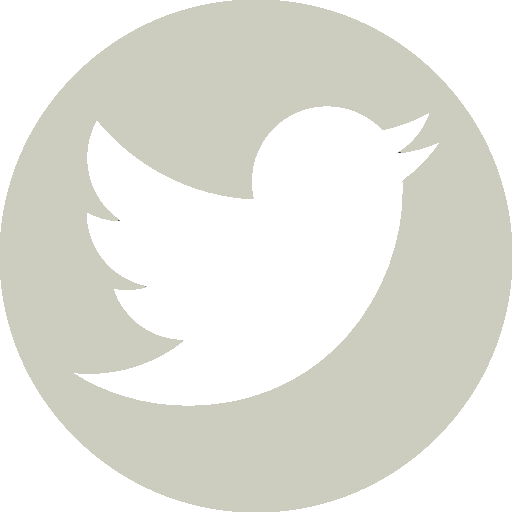
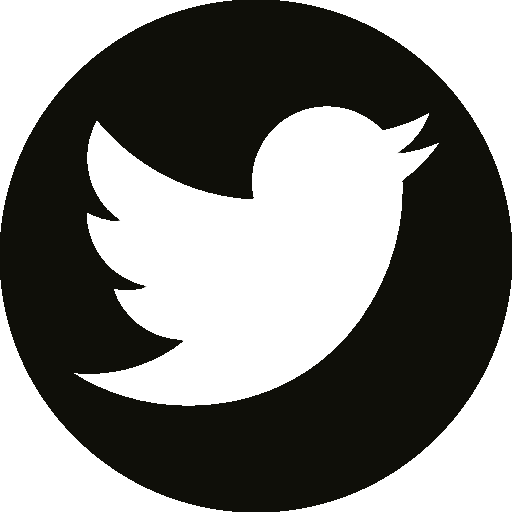
a

diff --git a/src/css/style.css b/src/css/style.css
@@ -1,1 +1,1 @@
-.body{padding:0;margin:0;backgrounf:linear-gradient(#fff, #fefefe, #eaeaea)}.serif-m{color:f1f1f1;font:bold 10px Sans-serif}.serif-h{color:#BDBDAD;font:bold 20px Sans-serif}.img-change{width:100%;height:100%}.container{position:relative;padding:0px 0px 0px 0px}.container-fluid{position:relative;padding:0px 0px 0px 0px;margin:0px 0px 0px 0px}.content{position:relative;margin-left:-15px;margin-right:-15px;margin:0px 0px 0px 0px}.content:before,.content:after{content:" ";display:table}.content:after{clear:both}.line-up{height:6px;background-color:#2F0000}.social{background-color:#F1F1F1;height:24px}.social #social-up__content{padding:2 2 2 2}#face{height:100px;position:relative;background-color:#222213}#face #face-box{margin:0px 0px 0px 0px;padding:0px 0px 0px 0px}.cap{height:34.35px;width:55px;position:absolute;top:45px;padding:0px 0px 0px 0px;background-image:url("../img/icones/logo.fw.png");background-size:100% 100%;background-position:center;margin-left:39.16667%}@media (min-width: 768px){.cap{margin-left:11.66667%}}@media (min-width: 992px){.cap{margin-left:11.66667%}}.navbar,.navbar-default{z-index:10;position:absolute;top:55px;right:0px;margin:0px 0px 0px 0px;padding:0px 0px 0px 0px;position:relative;min-height:1px;padding-left:15px;padding-right:15px;position:relative;min-height:1px;padding-left:15px;padding-right:15px;boder-radius:0;box-shadow:none;border:none;background-color:transparent}@media (min-width: 768px){.navbar,.navbar-default{float:left;width:58.33333%}}@media (min-width: 768px){.navbar,.navbar-default{margin-left:41.66667%}}@media (min-width: 992px){.navbar,.navbar-default{float:left;width:41.66667%}}@media (min-width: 992px){.navbar,.navbar-default{margin-left:50%}}.navbar .navbar-collapse,.navbar-default .navbar-collapse{background-color:rgba(34,34,19,0.4);border:none;margin:0px 0px 0px 0px}.navbar .navbar-collapse ul.navbar-nav,.navbar-default .navbar-collapse ul.navbar-nav{margin:0px 0px 0px 0px}.navbar .navbar-collapse ul.navbar-nav li,.navbar-default .navbar-collapse ul.navbar-nav li{text-align:left}.navbar .navbar-collapse ul.navbar-nav li.active a,.navbar-default .navbar-collapse ul.navbar-nav li.active a{background-color:#222213;color:#BDBDAD;font:12px Sans-serif}.navbar .navbar-collapse ul.navbar-nav li a,.navbar-default .navbar-collapse ul.navbar-nav li a{transition:0.5s;color:#BDBDAD;font:bold 10px Sans-serif}.navbar .navbar-collapse ul.navbar-nav li a:hover,.navbar-default .navbar-collapse ul.navbar-nav li a:hover{background:#f1f1f1;color:#222213}.navbar .navbar-nav:hover,.navbar-default .navbar-nav:hover{margin:0px 0px 100px 0px}.loading-box{height:350px;width:350px;border:2px solid white;position:absolute;top:50%;left:50%;transform:translate(-50%, -50%) rotate(-45deg)}.roller-p{height:55px;width:150px;border:5px solid #040e15;border-radius:7px;background-image:linear-gradient(to bottom, #ffca3e 0, #ffca3e 80%, #fc8f2e 80%);position:absolute;margin:auto;left:0;right:0;top:0;animation:roller-p 2s infinite}.roller-p:before{position:absolute;content:"";background-color:rgba(255,255,255,0.7);height:7px;width:75px;top:8px;left:8px;border-radius:10px}@keyframes roller-p{40%{top:165px}}.roller-p:after{position:absolute;content:"";height:50px;width:90px;border:7px solid #040e15;border-left:none;right:-20px;top:20px;z-index:-1;border-radius:7px}.handle-p{height:30px;width:7px;background-color:#040e15;position:absolute;top:65px;right:63px}.handle-p:after{position:absolute;content:"";height:75px;width:25px;background-color:#040e15;bottom:-75px;right:-8px;border-radius:5px}.paint-p{background-color:#ffca3e;height:0;width:130px;position:absolute;margin:auto;left:0;right:0;z-index:-1;animation:paint 2s infinite}@keyframes paint-p{40%{height:165px}}.read-sv-h1{font:20px Sans-serif}.read-sv-h2{font:13px Sans-serif}#sv{padding-top:15px;width:100%;color:rgba(34,34,19,0.6)}.box-sv{height:600px;text-align:justify;position:relative;position:relative;float:left;width:100%;min-height:1px;padding-left:15px;padding-right:15px;position:relative;min-height:1px;padding-left:15px;padding-right:15px;transition:0.6s}@media (min-width: 992px){.box-sv{float:left;width:33.33333%}}.box-sv:hover,.box-sv:active{background-color:rgba(64,16,0,0.5);color:#f1f1f1}.box-sv-1{height:600px;position:relative;position:relative;float:left;width:100%;min-height:1px;padding-left:15px;padding-right:15px;position:relative;min-height:1px;padding-left:15px;padding-right:15px;color:rgba(34,34,19,0.6);transition:0.6s}@media (min-width: 992px){.box-sv-1{float:left;width:33.33333%}}.box-sv-1:hover,.box-sv-1:active{background-color:rgba(138,138,123,0.7);color:#f1f1f1}.box-sv-2{height:600px;position:relative;position:relative;float:left;width:100%;min-height:1px;padding-left:15px;padding-right:15px;position:relative;min-height:1px;padding-left:15px;padding-right:15px;color:rgba(34,34,19,0.6);transition:0.6s}@media (min-width: 992px){.box-sv-2{float:left;width:33.33333%}}.box-sv-2:hover,.box-sv-2:active{background-color:rgba(0,48,64,0.5);color:#f1f1f1}.read-sv{position:absolute;opacity:1;height:300px;font:12px Sans-serif;padding:40px;padding-left:80px;padding-right:80px;text-align:justify;vertical-align:middle}.img-sv{position:absolute;right:0px;left:0px;top:300px;height:300px;background-repeat:no-repeat;background-size:cover;background-position:center;background-attachment:scroll}.read-sv-1{position:absolute;right:0px;left:0px;top:300px;opacity:1;height:300px;font:12px Sans-serif;padding:40px;padding-left:80px;padding-right:80px;text-align:justify;vertical-align:middle}.img-sv-1{position:absolute;right:0px;left:0px;top:0px;height:300px;background-repeat:no-repeat;background-size:cover;background-position:center;background-attachment:scroll}.accordion{max-width:100%;height:500px;margin:15px auto auto auto;display:flex;flex-direction:row;cursor:pointer;margin-botton:100px}.box{position:relative;height:450px;flex:1;background-position:left;background-size:cover;transition:.7s;box-shadow:0px 20px 30px rgba(0,0,0,0.47)}.box:hover{flex:7;height:500px}.a1{background-image:url("../img/slider/1.fw.png")}.a2{background-image:url("../img/slider/2.fw.jpeg")}.a3{background-image:url("../img/slider/5.fw.jpeg")}.a4{background-image:url("../img/slider/3.fw.jpeg")}.a5{background-image:url("../img/slider/6.fw.jpg")}.a6{background-image:url("../img/slider/7.fw.jpeg")}.text{position:absolute;bottom:0;opacity:0;padding:10px}.box:hover .text{opacity:1}p,h2{font-weight:normal;font-family:sans-serif}#job{padding:0 5px 0 5px;margin:10px auto 40px auto;position:relative;display:flex;justifly-content:space-between;height:350px}#job .card{position:relative;box-sizing:border-box;width:33.33%;box-shadow:0px 0 0px 0}#job .card .face{height:350px;transition:.5s;margin:0 5px 0 5px}#job .card .face.face1{overflow:hidden;position:relative;display:flex;justify-content:center;align-items:center;z-index:1}#job .card:hover .face.face1{transform:translateY(0)}#job .card .face.face1 .content{opacity:1;transition:0.5s}#job .card:hover .face.face1 .content{opacity:1}#job .card .face.face1 .content img{max-width:100px}#job .card .face.face2{position:relative;background:#f1f1f1;display:flex;justify-content:center;align-items:center;padding:20px;box-sizing:border-box;transform:translateY(-350px);transition:.5s;z-index:3;opacity:0}#job .card:hover .face.face2{height:350px;transition:.8s;opacity:.9}#job .card .face.face2 .content h3{margin:10px 0 0;padding:0;color:#000;text-align:justify;font-size:1.5em;font-weight:200}#job .card .face.face2 .content p{margin:0;padding:0}#job .card .face.face2 .content a{margin:15px 0 0;display:inline-block;text-decoration:none;font-weight:900;color:#333;padding:5px;border:1px solid #333}#job .card .face.face2 .content a:hover{background:#333;color:#fff}#servicos .accordion .box .text a{margin:15px 0 0;display:inline-block;text-decoration:none;font-weight:900;color:#333;padding:5px;border:1px solid #333}.consultoria,.projeto,.aprendizado{background-repeat:no-repeat;background-size:cover;background-position:center}.consultoria{background-image:url("../img/banners/consultoria.fw.jpeg")}.projeto{background-image:url("../img/banners/projeto.fw.jpg")}.aprendizado{background-image:url("../img/banners/aprendizado.fw.jpeg")}#servicos .accordion .box .text a:hover{background:#CCCCBF;border:1px solid  #CCCCBF}@media screen and (max-width: 800px){body{margin:0}.accordion{flex-direction:column;box-shadow:none;height:450px}.box{box-shadow:none;height:350px}.box:hover{flex:7;height:500px}.cap{top:35px;height:41.67px;width:70px}.read-sv{right:0px;left:0px;top:300px}.img-sv{right:0px;left:0px;top:0px}.membro-h{height:200px}.membro-face-h1,.membro-info-h1,.membro-face-h2,.membro-info-h2,.membro-face-v1,.membro-info-v1{height:100px}.membro-v1{height:200px}#job{margin:15px 0 15px 0}}#instagram h2{color:#000;text-align:justify;font-size:15}.box-ct{background:#f1f1f1;height:1250px;width:100%;position:relative}.contatos{width:100%;height:250px;position:absolute}.read-ct-h1{text-align:center;color:rgba(34,34,19,0.8);font:bold 20px Sans-serif}.read-ct-h2{text-align:center;color:rgba(34,34,19,0.8);font:bold 13px Sans-serif}.contato-form{background-image:url("../img/background/faq.jpg");background-repeat:no-repeat;background-size:cover;background-position:center;background-attachment:fixed;height:500px;width:100%;position:absolute;top:250px}.map-cap{height:400px;width:100%;position:absolute;top:750px}.wrapper{position:absolute;top:50%;transform:translateY(-50%);width:100%;padding:0 20px}.contact-form{max-width:1000px;margin:0 auto;background:rgba(0,0,0,0);padding:30px;border-radius:5px;display:flex}.input-fields{display:flex;flex-direction:column;margin-right:4%}.input-fields,.msg{width:48%}.input-fields .input,.msg textarea{margin:10px 0;background:transparent;border:0px;border-bottom:2px solid #f1f1f1;padding:10px;color:#f1f1f1;width:100%}.msg textarea{height:212px}::-webkit-input-placeholder{color:#f1f1f1}::-moz-input-placeholder{color:#f1f1f1}::-ms-input-placeholder{color:#f1f1f1}.btn{background:rgba(241,241,241,0.7);text-align:center;padding:15px;width:100%;border-radius:0px;color:#222213;cursor:pointer;text-transform:uppercase}@media screen and (max-width: 600px){.contact-form{flex-drection:column}.msg textarea{height:80px}.input-fields{width:100%}}#convite{background-color:#222213;display:inline-block;height:160px;width:100%}.read-cv{padding:33px;padding-left:0px;padding-right:0px;color:#BDBDAD;font:12px Sans-serif}.contact-us{border:1px solid rgba(138,138,123,0.7);display:block;position:relative;transition:0.7s;cursor:pointer;padding:15px;position:relative;float:left;width:50%;min-height:1px;padding-left:15px;padding-right:15px;margin-left:25%;position:relative;min-height:1px;padding-left:15px;padding-right:15px;color:rgba(138,138,123,0.7);font:bold 12px Sans-serif;z-index:1}@media (min-width: 992px){.contact-us{float:left;width:16.66667%}}@media (min-width: 992px){.contact-us{margin-left:41.66667%}}.contact-us:hover{transition:1.5s;color:#8a8a7b;border:1px solid rgba(0,0,0,0.9)}.contact-us::after{content:"";position:absolute;top:0px;left:0px;width:100%;height:100%;background:rgba(0,0,0,0.9);z-index:-1;transform:scaleX(0);transform-origin:right;transition:transform 700ms cubic-bezier(0.46, -0.33, 0.58, 1.24)}.contact-us:hover::after{transform:scaleX(1);transform-origin:left}#instagram{background-color:#F7F7FA}#instagram .container .content{padding:20px}#instagram .container .content #instagram__content{display:inline-block;height:350px}#instagram .container .content #instagram__content .read-instagram{padding-left:0px;padding-right:0px;color:#131304;font:12px Sans-serif}.carousel{height:700px;Width:100%;position:relative;top:-50px}.carousel-item{height:400px;width:300px;background-repeat:no-repeat;background-size:cover;background-position:center}.read-bnnr-h2{font:12px Sans-serif;color:rgba(241,241,241,0.8)}#banner{background-color:#222213;position:relative;padding:100px 0px 100px 0px}.read-bnnr{margin:20px 0 20px 0px;text-align:justify;vertical-align:middle;position:absolute;position:relative;float:left;width:100%;min-height:1px;padding-left:15px;padding-right:15px;position:relative;min-height:1px;padding-left:15px;padding-right:15px}@media (min-width: 992px){.read-bnnr{float:left;width:25%}}@media (min-width: 992px){.read-bnnr{margin-left:8.33333%}}.read-bnnr-1{margin:20px 0 20px 0px;text-align:justify;vertical-align:middle;position:relative;float:left;width:100%;min-height:1px;padding-left:15px;padding-right:15px;position:relative;min-height:1px;padding-left:15px;padding-right:15px}@media (min-width: 992px){.read-bnnr-1{float:left;width:25%}}@media (min-width: 992px){.read-bnnr-1{margin-left:8.33333%}}.read-bnnr-2{margin:20px 0 20px 0px;text-align:justify;vertical-align:middle;position:absolute;top:-30px;position:relative;float:left;width:100%;min-height:1px;padding-left:15px;padding-right:15px;position:relative;min-height:1px;padding-left:15px;padding-right:15px}@media (min-width: 992px){.read-bnnr-2{float:left;width:25%}}@media (min-width: 992px){.read-bnnr-2{margin-left:8.33333%}}p{font:12px Sans-serif}h2{font:bold 12px Sans-serif}.read-about,.read-about-we{position:relative;min-height:1px;padding-left:15px;padding-right:15px;position:absolute;top:50%;transform:translateY(-50%);text-align:justify;padding:50px}@media (min-width: 992px){.read-about,.read-about-we{float:left;width:83.33333%}}@media (min-width: 992px){.read-about,.read-about-we{margin-left:8.33333%}}.read-about{color:#222213}.read-about-we{border-style:solid;border-top-width:1px;border-bottom-width:1px;border-left-width:0px;border-right-width:0px;border-color:#f1f1f1;left:15px;right:15px;color:#f1f1f1;font:bold 25px Sans-serif}#history-cap,#history-cap-people{z-index:1;background-color:#f1f1f1;position:relative;min-height:1px;padding-left:15px;padding-right:15px}@media (min-width: 992px){#history-cap,#history-cap-people{float:left;width:100%}}#history-cap{height:350px;box-shadow:0px 0px 10px 0px}#history-cap-people{height:1000px;box-shadow:10px 0px 0px 0px}#we{height:450px;background-image:url("../img/slider/4.fw.png");background-repeat:no-repeat;background-size:cover;background-position:center;background-attachment:fixed;position:relative;min-height:1px;padding-left:15px;padding-right:15px}@media (min-width: 992px){#we{float:left;width:100%}}.read-about-people{font:bold 20px Sans-serif;position:absolute;top:50%;transform:translateY(-50%);left:50%;transform:translateX(-50%);text-align:center;color:#222213}.col{background-color:#f1f1f1}.membro-h{height:500px;position:relative;float:left;width:66.66667%;min-height:1px;padding-left:15px;padding-right:15px;position:relative;min-height:1px;padding-left:15px;padding-right:15px;position:relative;min-height:1px;padding-left:15px;padding-right:15px}@media (min-width: 768px){.membro-h{float:left;width:66.66667%}}@media (min-width: 992px){.membro-h{float:left;width:33.33333%}}.membro-h1,.membro-h2{width:100%;height:250px}.membro-face-h1,.membro-face-h2,.membro-info-h1,.membro-info-h2{position:absolute;width:50%;height:250px}.membro-face-h1,.membro-face-h2,.membro-face-v1{background-repeat:no-repeat;background-size:cover;background-position:center;background-attachment:scroll;cursor:pointer;opacity:.9}.membro-info-h1,.membro-info-h2,.membro-info-v1{padding:130px 15px 5px 15px;text-align:justify}.membro-info-h1,.membro-face-h2{right:0%}.membro-v1{position:relative;float:left;width:33.33333%;min-height:1px;padding-left:15px;padding-right:15px;position:relative;min-height:1px;padding-left:15px;padding-right:15px;position:relative;min-height:1px;padding-left:15px;padding-right:15px;height:500px}@media (min-width: 768px){.membro-v1{float:left;width:33.33333%}}@media (min-width: 992px){.membro-v1{float:left;width:16.66667%}}.membro-face-v1,.membro-info-v1{height:250px;width:100%}.membro-h1:hover,.membro-h2:hover,.membro-v1:hover{transition:900ms;background-color:#292929;color:#CECEBF}
+body{padding:0;margin:0;backgrounf:linear-gradient(#fff, #fefefe, #eaeaea)}.serif-m{color:f1f1f1;font:bold 10px Sans-serif}.serif-h{color:#BDBDAD;font:bold 20px Sans-serif}.img-change{width:100%;height:100%}.container{position:relative;padding:0px 0px 0px 0px}.container-fluid{position:relative;padding:0px 0px 0px 0px;margin:0px 0px 0px 0px}.content{position:relative;margin-left:-15px;margin-right:-15px;margin:0px 0px 0px 0px}.content:before,.content:after{content:" ";display:table}.content:after{clear:both}#line-up{height:0;background-color:#1A0000;width:100%}.social{background-color:#F1F1F1;height:24px}.social #social-up__content{padding:2 2 2 2}#face{height:100px;position:relative;background-color:#222213}#face #face-box{margin:0px 0px 0px 0px;padding:0px 0px 0px 0px}.cap{height:34.35px;width:55px;position:absolute;top:45px;padding:0px 0px 0px 0px;background-image:url("../img/icones/logo.fw.png");background-size:100% 100%;background-position:center;margin-left:39.16667%}@media (min-width: 768px){.cap{margin-left:11.66667%}}@media (min-width: 992px){.cap{margin-left:11.66667%}}.navbar,.navbar-default{z-index:10;position:absolute;top:55px;right:0px;margin:0px 0px 0px 0px;padding:0px 0px 0px 0px;position:relative;min-height:1px;padding-left:15px;padding-right:15px;position:relative;min-height:1px;padding-left:15px;padding-right:15px;boder-radius:0;box-shadow:none;border:none;background-color:transparent}@media (min-width: 768px){.navbar,.navbar-default{float:left;width:58.33333%}}@media (min-width: 768px){.navbar,.navbar-default{margin-left:41.66667%}}@media (min-width: 992px){.navbar,.navbar-default{float:left;width:41.66667%}}@media (min-width: 992px){.navbar,.navbar-default{margin-left:50%}}.navbar .navbar-collapse,.navbar-default .navbar-collapse{background-color:rgba(34,34,19,0.4);border:none;margin:0px 0px 0px 0px}.navbar .navbar-collapse ul.navbar-nav,.navbar-default .navbar-collapse ul.navbar-nav{margin:0px 0px 0px 0px}.navbar .navbar-collapse ul.navbar-nav li,.navbar-default .navbar-collapse ul.navbar-nav li{text-align:left}.navbar .navbar-collapse ul.navbar-nav li.active a,.navbar-default .navbar-collapse ul.navbar-nav li.active a{background-color:#222213;color:#BDBDAD;font:12px Sans-serif}.navbar .navbar-collapse ul.navbar-nav li a,.navbar-default .navbar-collapse ul.navbar-nav li a{transition:0.5s;color:#BDBDAD;font:bold 10px Sans-serif}.navbar .navbar-collapse ul.navbar-nav li a:hover,.navbar-default .navbar-collapse ul.navbar-nav li a:hover{background:#f1f1f1;color:#222213}.navbar .navbar-nav:hover,.navbar-default .navbar-nav:hover{margin:0px 0px 100px 0px}.loading-box{height:350px;width:350px;border:2px solid white;position:absolute;top:50%;left:50%;transform:translate(-50%, -50%) rotate(-45deg)}.roller-p{height:55px;width:150px;border:5px solid #040e15;border-radius:7px;background-image:linear-gradient(to bottom, #ffca3e 0, #ffca3e 80%, #fc8f2e 80%);position:absolute;margin:auto;left:0;right:0;top:0;animation:roller-p 2s infinite}.roller-p:before{position:absolute;content:"";background-color:rgba(255,255,255,0.7);height:7px;width:75px;top:8px;left:8px;border-radius:10px}@keyframes roller-p{40%{top:165px}}.roller-p:after{position:absolute;content:"";height:50px;width:90px;border:7px solid #040e15;border-left:none;right:-20px;top:20px;z-index:-1;border-radius:7px}.handle-p{height:30px;width:7px;background-color:#040e15;position:absolute;top:65px;right:63px}.handle-p:after{position:absolute;content:"";height:75px;width:25px;background-color:#040e15;bottom:-75px;right:-8px;border-radius:5px}.paint-p{background-color:#ffca3e;height:0;width:130px;position:absolute;margin:auto;left:0;right:0;z-index:-1;animation:paint 2s infinite}@keyframes paint-p{40%{height:165px}}#flow{background-color:#f1f1f1;height:60px}#flow .content{display:flex;justify-content:flex-end;align-items:center;position:relative}#flow .content img{height:20px;width:20px}#flow .content .float-dr{margin-left:5%;margin-right:auto}#flow .content .float-soc{margin-right:3%}#flow .content .cap-flow{height:60px;width:60px;background-image:url("../img/icones/cap.png");background-size:100% 100%;background-position:center;margin-right:5%}.accordion{max-width:100%;height:500px;margin:15px auto auto auto;display:flex;flex-direction:row;cursor:pointer;margin-botton:100px}.box{position:relative;height:450px;flex:1;background-position:left;background-size:cover;transition:.6s;box-shadow:0px 20px 30px rgba(0,0,0,0.47)}.box:hover{flex:7;height:500px}.a1{background-image:url("../img/slider/1.fw.png")}.a2{background-image:url("../img/slider/2.fw.jpeg")}.a3{background-image:url("../img/slider/5.fw.jpeg")}.a4{background-image:url("../img/slider/3.fw.jpeg")}.a5{background-image:url("../img/slider/6.fw.jpg")}.a6{background-image:url("../img/slider/7.fw.jpeg")}.text{position:absolute;bottom:0;opacity:0;padding:10px}.box:hover .text{opacity:1}p,h2{font-weight:normal;font-family:sans-serif}#job{padding:0 5px 0 5px;margin:10px auto 40px auto;position:relative;display:flex;justifly-content:space-between;height:350px}#job .card{position:relative;box-sizing:border-box;width:33.33%;box-shadow:0px 0 0px 0}#job .card .face{height:350px;transition:.5s;margin:0 5px 0 5px}#job .card .face.face1{overflow:hidden;position:relative;display:flex;justify-content:center;align-items:center;z-index:1}#job .card:hover .face.face1{transform:translateY(0)}#job .card .face.face1 .content{opacity:.9;transition:0.5s}#job .card:hover .face.face1 .content{opacity:1}#job .card .face.face1 .content img{max-width:100px}#job .card .face.face2{position:relative;background:#f1f1f1;display:flex;justify-content:center;align-items:center;padding:20px;box-sizing:border-box;transform:translateY(-350px);transition:.5s;z-index:3;opacity:0}#job .card:hover .face.face2{height:350px;transition:.8s;opacity:.9}#job .card .face.face2 .content h3{margin:10px 0 0;padding:0;color:#000;text-align:justify;font-size:1.5em;font-weight:200}#job .card .face.face2 .content p{margin:0;padding:0}#job .card .face.face2 .content a{margin:15px 0 0;display:inline-block;text-decoration:none;font-weight:900;color:#333;padding:5px;border:1px solid #333}#job .card .face.face2 .content a:hover{background:#333;color:#fff}#servicos .accordion .box .text a{margin:15px 0 0;display:inline-block;text-decoration:none;font-weight:900;color:#333;padding:5px;border:1px solid #333}.consultoria,.projeto,.aprendizado{background-repeat:no-repeat;background-size:cover;background-position:center}.consultoria{background-image:url("../img/banners/consultoria.fw.jpeg")}.projeto{background-image:url("../img/banners/projeto.fw.jpg")}.aprendizado{background-image:url("../img/banners/aprendizado.fw.jpeg")}#servicos .accordion .box .text a:hover{background:#CCCCBF;border:1px solid  #CCCCBF}#instagram h2{color:#000;text-align:justify;font-size:15}@media screen and (max-width: 800px){body{margin:0}.accordion{flex-direction:column;box-shadow:none;height:450px}.box{box-shadow:none;height:350px}.box:hover{flex:7;height:500px}.cap{top:35px;height:41.67px;width:70px}.read-sv{right:0px;left:0px;top:300px}.img-sv{right:0px;left:0px;top:0px}.membro-h{height:200px}.membro-face-h1,.membro-info-h1,.membro-face-h2,.membro-info-h2,.membro-face-v1,.membro-info-v1{height:100px}.membro-v1{height:200px}#job{margin:15px 0 15px 0}}.box-ct{background:#f1f1f1;height:1250px;width:100%;position:relative}.contatos{width:100%;height:250px;position:absolute}.read-ct-h1{text-align:center;color:rgba(34,34,19,0.8);font:bold 20px Sans-serif}.read-ct-h2{text-align:center;color:rgba(34,34,19,0.8);font:bold 13px Sans-serif}.contato-form{background-image:url("../img/background/faq.jpg");background-repeat:no-repeat;background-size:cover;background-position:center;background-attachment:fixed;height:500px;width:100%;position:absolute;top:250px}.map-cap{height:400px;width:100%;position:absolute;top:750px}.wrapper{position:absolute;top:50%;transform:translateY(-50%);width:100%;padding:0 20px}.contact-form{max-width:1000px;margin:0 auto;background:rgba(0,0,0,0);padding:30px;border-radius:5px;display:flex}.input-fields{display:flex;flex-direction:column;margin-right:4%}.input-fields,.msg{width:48%}.input-fields .input,.msg textarea{margin:10px 0;background:transparent;border:0px;border-bottom:2px solid #f1f1f1;padding:10px;color:#f1f1f1;width:100%}.msg textarea{height:212px}::-webkit-input-placeholder{color:#f1f1f1}::-moz-input-placeholder{color:#f1f1f1}::-ms-input-placeholder{color:#f1f1f1}.btn{background:rgba(241,241,241,0.7);text-align:center;padding:15px;width:100%;border-radius:0px;color:#222213;cursor:pointer;text-transform:uppercase}@media screen and (max-width: 600px){.contact-form{flex-drection:column}.msg textarea{height:80px}.input-fields{width:100%}}#convite{background-color:#0F0F09;display:inline-block;height:160px;width:100%}.read-cv{padding:33px;padding-left:0px;padding-right:0px;color:#BDBDAD;font:12px Sans-serif}.contact-us{border:1px solid rgba(138,138,123,0.7);display:block;position:relative;transition:0.7s;cursor:pointer;padding:15px;position:relative;float:left;width:50%;min-height:1px;padding-left:15px;padding-right:15px;margin-left:25%;position:relative;min-height:1px;padding-left:15px;padding-right:15px;color:rgba(138,138,123,0.7);font:bold 12px Sans-serif;z-index:1}@media (min-width: 992px){.contact-us{float:left;width:16.66667%}}@media (min-width: 992px){.contact-us{margin-left:41.66667%}}.contact-us:hover{transition:1.5s;color:#8a8a7b;border:1px solid rgba(0,0,0,0.9)}.contact-us::after{content:"";position:absolute;top:0px;left:0px;width:100%;height:100%;background:rgba(0,0,0,0.9);z-index:-1;transform:scaleX(0);transform-origin:right;transition:transform 700ms cubic-bezier(0.46, -0.33, 0.58, 1.24)}.contact-us:hover::after{transform:scaleX(1);transform-origin:left}#instagram{background-color:#F7F7FA}#instagram .container .content{padding:20px}#instagram .container .content #instagram__content{display:inline-block;height:350px}#instagram .container .content #instagram__content .read-instagram{padding-left:0px;padding-right:0px;color:#131304;font:12px Sans-serif}#instagram h3{font:bold 13px Sans-serif;display:block;position:relative;min-height:1px;padding-left:15px;padding-right:15px;color:#222213}@media (min-width: 992px){#instagram h3{float:left;width:8.33333%}}#instagram .carousel{height:320px;Width:100%;position:relative}#instagram .carousel .carousel-item{overflow:hidden;height:300px;width:300px;background-repeat:no-repeat;background-size:cover;background-position:center}.read-bnnr-h2{font:12px Sans-serif;color:rgba(241,241,241,0.8)}#banner{background-color:#0F0F09;position:relative;padding:100px 0px 100px 0px}.read-bnnr{margin:20px 0 20px 0px;text-align:justify;vertical-align:middle;position:absolute;position:relative;float:left;width:100%;min-height:1px;padding-left:15px;padding-right:15px;position:relative;min-height:1px;padding-left:15px;padding-right:15px}@media (min-width: 992px){.read-bnnr{float:left;width:25%}}@media (min-width: 992px){.read-bnnr{margin-left:8.33333%}}.read-bnnr-1{margin:20px 0 20px 0px;text-align:justify;vertical-align:middle;position:relative;float:left;width:100%;min-height:1px;padding-left:15px;padding-right:15px;position:relative;min-height:1px;padding-left:15px;padding-right:15px}@media (min-width: 992px){.read-bnnr-1{float:left;width:25%}}@media (min-width: 992px){.read-bnnr-1{margin-left:8.33333%}}.read-bnnr-2{margin:20px 0 20px 0px;text-align:justify;vertical-align:middle;position:absolute;top:-30px;position:relative;float:left;width:100%;min-height:1px;padding-left:15px;padding-right:15px;position:relative;min-height:1px;padding-left:15px;padding-right:15px}@media (min-width: 992px){.read-bnnr-2{float:left;width:25%}}@media (min-width: 992px){.read-bnnr-2{margin-left:8.33333%}}p{font:12px Sans-serif;margin:0}h2{font:bold 12px Sans-serif}h3{font:bold 17px Sans-serif}.read-about,.read-about-we{position:relative;min-height:1px;padding-left:15px;padding-right:15px;position:absolute;top:50%;transform:translateY(-50%);text-align:justify;padding:50px}@media (min-width: 992px){.read-about,.read-about-we{float:left;width:83.33333%}}@media (min-width: 992px){.read-about,.read-about-we{margin-left:8.33333%}}.read-about{color:#222213}.read-about-we{border-style:solid;border-top-width:1px;border-bottom-width:1px;border-left-width:0px;border-right-width:0px;border-color:#f1f1f1;left:15px;right:15px;color:#f1f1f1;font:bold 25px Sans-serif}#history-cap,#history-cap-people{z-index:1;background-color:#f1f1f1;position:relative;min-height:1px;padding-left:15px;padding-right:15px}@media (min-width: 992px){#history-cap,#history-cap-people{float:left;width:100%}}#history-cap{height:350px;box-shadow:0px 0px 10px 0px}#history-cap-people{height:1000px;box-shadow:10px 0px 0px 0px}#we{height:450px;background-image:url("../img/slider/4.fw.png");background-repeat:no-repeat;background-size:cover;background-position:center;background-attachment:fixed;position:relative;min-height:1px;padding-left:15px;padding-right:15px}@media (min-width: 992px){#we{float:left;width:100%}}.read-about-people{font:bold 20px Sans-serif;position:absolute;top:50%;transform:translateY(-50%);left:50%;transform:translateX(-50%);text-align:center;color:#222213}.col{background-color:#f1f1f1}.membro-h{height:500px;position:relative;float:left;width:66.66667%;min-height:1px;padding-left:15px;padding-right:15px;position:relative;min-height:1px;padding-left:15px;padding-right:15px;position:relative;min-height:1px;padding-left:15px;padding-right:15px}@media (min-width: 768px){.membro-h{float:left;width:66.66667%}}@media (min-width: 992px){.membro-h{float:left;width:33.33333%}}.membro-h1,.membro-h2{width:100%;height:250px}.membro-face-h1,.membro-face-h2,.membro-info-h1,.membro-info-h2{position:absolute;width:50%;height:250px}.membro-face-h1,.membro-face-h2,.membro-face-v1{background-repeat:no-repeat;background-size:cover;background-position:center;background-attachment:scroll;cursor:pointer;opacity:.9}.membro-info-h1,.membro-info-h2,.membro-info-v1{padding:130px 15px 5px 15px;text-align:justify}.membro-info-h1,.membro-face-h2{right:0%}.membro-v1{position:relative;float:left;width:33.33333%;min-height:1px;padding-left:15px;padding-right:15px;position:relative;min-height:1px;padding-left:15px;padding-right:15px;position:relative;min-height:1px;padding-left:15px;padding-right:15px;height:500px}@media (min-width: 768px){.membro-v1{float:left;width:33.33333%}}@media (min-width: 992px){.membro-v1{float:left;width:16.66667%}}.membro-face-v1,.membro-info-v1{height:250px;width:100%}.membro-h1:hover,.membro-h2:hover,.membro-v1:hover{transition:900ms;background-color:#292929;color:#CECEBF}

diff --git a/index.html b/index.html
@@ -6,10 +6,11 @@
     <meta name="viewport" content="width=device-width, initial-scale=1, maximum-scale=1, user-scalable=no">
     <meta http-equiv="X-UA-Compatible" content="IE=edge,chrome=1">
     <!-- Bootstrap CSS -->
+        <link rel="stylesheet" href="https://cdnjs.cloudflare.com/ajax/libs/materialize/1.0.0/css/materialize.min.css">
     <link rel="stylesheet" href="src/css/vendors/bootstrap/bootstrap.min.css">
     <link rel="stylesheet" href="src/css/vendors/pluguins.css">
     <link rel="stylesheet" href="src/css/style.css">
-    <link rel="stylesheet" href="https://cdnjs.cloudflare.com/ajax/libs/materialize/1.0.0/css/materialize.min.css">
+
     <title>home</title>
     <meta content="guhcalm" name="author">
     <link rel="shortcut icon" href="src/img/icones/favicon.png"/>
@@ -177,43 +178,25 @@
 <!--end.convite><!end.convite-->
 <!--instagram><!instagram-->
   <div class="container-fluid" id="instagram">
-          <p>instagram</p>  
+          <h3>Instagram</h3>
           <div class="carousel">
-            <div class="carousel-item" style="width: 300px;">
+            <div class="carousel-item">
               <img src="https://instagram.fudi1-1.fna.fbcdn.net/vp/397b9bd189ae9860ecc3c5cafeafbe9c/5E0B4883/t51.2885-15/e35/44296656_1031057727065690_2774479917848774887_n.jpg?_nc_ht=instagram.fudi1-1.fna.fbcdn.net&_nc_cat=102">
             </div>
-            <div class="carousel-item" style="width: 300px;">
-              <img src="https://instagram.fudi1-1.fna.fbcdn.net/vp/328c7fc05d678973cf8c724dcd899f46/5D7EAE13/t51.12442-15/sh0.08/e35/p640x640/43986113_2325129437719036_8492068022016607004_n.jpg?_nc_ht=instagram.fudi1-1.fna.fbcdn.net&_nc_cat=104">
+            <div class="carousel-item">
+              <img src="src/img/banners/conc.jpg">
             </div>
-            <div class="carousel-item" style="width: 300px;">
-              <img src="https://instagram.fudi1-2.fna.fbcdn.net/vp/ff7d69609d8c11cca1e05bbcb1ab4593/5DFBB662/t51.2885-15/sh0.08/e35/s750x750/47691587_982143768639475_4798743166923151566_n.jpg?_nc_ht=instagram.fudi1-2.fna.fbcdn.net&_nc_cat=107">
-            </div>
-            <div class="carousel-item" style="width: 300px;">
+            <div class="carousel-item">
               <img src="https://instagram.fudi1-1.fna.fbcdn.net/vp/397b9bd189ae9860ecc3c5cafeafbe9c/5E0B4883/t51.2885-15/e35/44296656_1031057727065690_2774479917848774887_n.jpg?_nc_ht=instagram.fudi1-1.fna.fbcdn.net&_nc_cat=102">
             </div>
-            <div class="carousel-item" style="width: 300px;">
-              <img src="https://instagram.fudi1-1.fna.fbcdn.net/vp/328c7fc05d678973cf8c724dcd899f46/5D7EAE13/t51.12442-15/sh0.08/e35/p640x640/43986113_2325129437719036_8492068022016607004_n.jpg?_nc_ht=instagram.fudi1-1.fna.fbcdn.net&_nc_cat=104">
+            <div class="carousel-item">
+              <img src="src/img/banners/conc.jpg">
             </div>
-            <div class="carousel-item" style="width: 300px;">
-              <img src="https://instagram.fudi1-2.fna.fbcdn.net/vp/ff7d69609d8c11cca1e05bbcb1ab4593/5DFBB662/t51.2885-15/sh0.08/e35/s750x750/47691587_982143768639475_4798743166923151566_n.jpg?_nc_ht=instagram.fudi1-2.fna.fbcdn.net&_nc_cat=107">
-            </div>
-            <div class="carousel-item" style="width: 300px;">
+            <div class="carousel-item">
               <img src="https://instagram.fudi1-1.fna.fbcdn.net/vp/397b9bd189ae9860ecc3c5cafeafbe9c/5E0B4883/t51.2885-15/e35/44296656_1031057727065690_2774479917848774887_n.jpg?_nc_ht=instagram.fudi1-1.fna.fbcdn.net&_nc_cat=102">
             </div>
-            <div class="carousel-item" style="width: 300px;">
-              <img src="https://instagram.fudi1-1.fna.fbcdn.net/vp/328c7fc05d678973cf8c724dcd899f46/5D7EAE13/t51.12442-15/sh0.08/e35/p640x640/43986113_2325129437719036_8492068022016607004_n.jpg?_nc_ht=instagram.fudi1-1.fna.fbcdn.net&_nc_cat=104">
-            </div>
-            <div class="carousel-item" style="width: 300px;">
-              <img src="https://instagram.fudi1-2.fna.fbcdn.net/vp/ff7d69609d8c11cca1e05bbcb1ab4593/5DFBB662/t51.2885-15/sh0.08/e35/s750x750/47691587_982143768639475_4798743166923151566_n.jpg?_nc_ht=instagram.fudi1-2.fna.fbcdn.net&_nc_cat=107">
-            </div>
-            <div class="carousel-item" style="width: 300px;">
-              <img src="https://instagram.fudi1-1.fna.fbcdn.net/vp/397b9bd189ae9860ecc3c5cafeafbe9c/5E0B4883/t51.2885-15/e35/44296656_1031057727065690_2774479917848774887_n.jpg?_nc_ht=instagram.fudi1-1.fna.fbcdn.net&_nc_cat=102">
-            </div>
-            <div class="carousel-item" style="width: 300px;">
-              <img src="https://instagram.fudi1-1.fna.fbcdn.net/vp/328c7fc05d678973cf8c724dcd899f46/5D7EAE13/t51.12442-15/sh0.08/e35/p640x640/43986113_2325129437719036_8492068022016607004_n.jpg?_nc_ht=instagram.fudi1-1.fna.fbcdn.net&_nc_cat=104">
-            </div>
-            <div class="carousel-item" style="width: 300px;">
-              <img src="https://instagram.fudi1-2.fna.fbcdn.net/vp/ff7d69609d8c11cca1e05bbcb1ab4593/5DFBB662/t51.2885-15/sh0.08/e35/s750x750/47691587_982143768639475_4798743166923151566_n.jpg?_nc_ht=instagram.fudi1-2.fna.fbcdn.net&_nc_cat=107">
+            <div class="carousel-item">
+              <img src="src/img/banners/conc.jpg">
             </div>
   </div>
 
@@ -244,6 +227,29 @@
   </div>
 </div>
 </div>
+
+<!--flow-->
+<div class="container-fluid" id="flow">
+    <div class="content">
+      <div class="float-dr">
+      <p>© Copyright 2019 CAP |</p>
+      </div>
+      <div class="float-soc">
+      <img src="src/img/icones/facew.png" href="#">
+      <img src="src/img/icones/tww.png" href="#">
+      <img src="src/img/icones/insw.png" href="#">
+      </div>
+      <div class="cap-flow">
+      </div>
+
+    </div>
+  </div>
+</div>
+<!--end.flow-->
+<!--menu-->
+<!--end.menu-->
+
+
 <div id="line-up"></div>
 <!--end.banner><!end.banner-->
 

diff --git a/contact.html b/contact.html
@@ -6,11 +6,10 @@
     <meta name="viewport" content="width=device-width, initial-scale=1, maximum-scale=1, user-scalable=no">
     <meta http-equiv="X-UA-Compatible" content="IE=edge,chrome=1">
     <!-- Bootstrap CSS -->
-    
+        <link rel="stylesheet" href="https://cdnjs.cloudflare.com/ajax/libs/materialize/1.0.0/css/materialize.min.css">
     <link rel="stylesheet" href="src/css/vendors/bootstrap/bootstrap.min.css">
     <link rel="stylesheet" href="src/css/vendors/pluguins.css">
     <link rel="stylesheet" href="src/css/style.css">
-
     <title>contato</title>
     <meta content="guhcalm" name="author">
     <link rel="shortcut icon" href="src/img/icones/favicon.png"/>
@@ -111,10 +110,27 @@
   </div>
 </div>
 </div>
+<!--flow-->
+<div class="container-fluid" id="flow">
+    <div class="content">
+      <div class="float-dr">
+      <p>© Copyright 2019 CAP |</p>
+      </div>
+      <div class="float-soc">
+      <img src="src/img/icones/facew.png" href="#">
+      <img src="src/img/icones/tww.png" href="#">
+      <img src="src/img/icones/insw.png" href="#">
+      </div>
+      <div class="cap-flow">
+      </div>
+
+    </div>
+  </div>
+</div>
+<!--end.flow-->
+
 <div id="line-up"></div>
 <!--end.banner><!end.banner-->
-
-
 
 
     <!-- Optional JavaScript -->

diff --git a/about-cap.html b/about-cap.html
@@ -6,11 +6,10 @@
     <meta name="viewport" content="width=device-width, initial-scale=1, maximum-scale=1, user-scalable=no">
     <meta http-equiv="X-UA-Compatible" content="IE=edge,chrome=1">
     <!-- Bootstrap CSS -->
-    
+        <link rel="stylesheet" href="https://cdnjs.cloudflare.com/ajax/libs/materialize/1.0.0/css/materialize.min.css">
     <link rel="stylesheet" href="src/css/vendors/bootstrap/bootstrap.min.css">
     <link rel="stylesheet" href="src/css/vendors/pluguins.css">
     <link rel="stylesheet" href="src/css/style.css">
-
     <title>quem somos nós</title>
     <meta content="guhcalm" name="author">
     <link rel="shortcut icon" href="src/img/icones/favicon.png"/>
@@ -248,9 +247,27 @@
   </div>
 </div>
 </div>
+<!--flow-->
+<div class="container-fluid" id="flow">
+    <div class="content">
+      <div class="float-dr">
+      <p>© Copyright 2019 CAP |</p>
+      </div>
+      <div class="float-soc">
+      <img src="src/img/icones/facew.png" href="#">
+      <img src="src/img/icones/tww.png" href="#">
+      <img src="src/img/icones/insw.png" href="#">
+      </div>
+      <div class="cap-flow">
+      </div>
+
+    </div>
+  </div>
+</div>
+<!--end.flow-->
+
 <div id="line-up"></div>
 <!--end.banner><!end.banner-->
-
 
 
 

diff --git a/services.html b/services.html
@@ -1,12 +1,13 @@
 <!doctype html>
 <html lang="pt-br">
   <head>
+  <head>
     <!-- Required meta tags -->
     <meta charset="utf-8">
     <meta name="viewport" content="width=device-width, initial-scale=1, maximum-scale=1, user-scalable=no">
     <meta http-equiv="X-UA-Compatible" content="IE=edge,chrome=1">
     <!-- Bootstrap CSS -->
-    
+        <link rel="stylesheet" href="https://cdnjs.cloudflare.com/ajax/libs/materialize/1.0.0/css/materialize.min.css">
     <link rel="stylesheet" href="src/css/vendors/bootstrap/bootstrap.min.css">
     <link rel="stylesheet" href="src/css/vendors/pluguins.css">
     <link rel="stylesheet" href="src/css/style.css">
@@ -111,9 +112,27 @@
   </div>
 </div>
 </div>
+<!--flow-->
+<div class="container-fluid" id="flow">
+    <div class="content">
+      <div class="float-dr">
+      <p>© Copyright 2019 CAP |</p>
+      </div>
+      <div class="float-soc">
+      <img src="src/img/icones/facew.png" href="#">
+      <img src="src/img/icones/tww.png" href="#">
+      <img src="src/img/icones/insw.png" href="#">
+      </div>
+      <div class="cap-flow">
+      </div>
+
+    </div>
+  </div>
+</div>
+<!--end.flow-->
+
 <div id="line-up"></div>
 <!--end.banner><!end.banner-->
-
 
 
 

diff --git a/src/scss/vendors/_header.scss b/src/scss/vendors/_header.scss
@@ -1,5 +1,5 @@
 /*padrões*/
-.body{
+body{
 	padding: 0;
 	margin: 0;
 	backgrounf: linear-gradient(#fff, #fefefe, #eaeaea)
@@ -31,10 +31,10 @@
 	margin: 0px 0px 0px 0px;
 }
 /*end.padrões*/
-
-.line-up{
-	height: 6px;
-	background-color: #2F0000;
+#line-up{
+	height: 0;
+	background-color: #1A0000;
+	width: 100%;
 }
 .social{
 	background-color: #F1F1F1;
@@ -68,7 +68,6 @@
 }
 .navbar, .navbar-default{
 	z-index: 10;
-	
 	position: absolute;
 	top: 55px;
 	right: 0px;
@@ -198,8 +197,39 @@
 	z-index: -1;
 	animation: paint 2s infinite;
 }
+
 @keyframes paint-p{
 	40%{
 		height: 165px;
 	}
+}
+
+#flow{
+	background-color: #f1f1f1;
+	height: 60px;
+}
+#flow .content{
+	display: flex;
+	justify-content: flex-end;
+	align-items: center;
+	position: relative;
+}
+#flow .content img{
+	height: 20px;
+	width: 20px;
+}
+#flow .content .float-dr{
+	margin-left: 5%;
+	margin-right: auto;
+}
+#flow .content .float-soc{
+margin-right: 3%;
+}
+#flow .content .cap-flow{
+	height: 60px;
+	width: 60px;
+	background-image: url('../img/icones/cap.png');
+	background-size: 100% 100%;
+	background-position: center;
+	margin-right: 5%;
 }

diff --git a/src/scss/vendors/_slide.scss b/src/scss/vendors/_slide.scss
@@ -14,7 +14,7 @@
 	flex: 1;
 	background-position: left;
 	background-size: cover;
-	transition: .7s;
+	transition: .6s;
 	box-shadow: 0px 20px 30px rgba(0, 0, 0, 0.47);
 }
 .box:hover {
@@ -86,7 +86,7 @@ p, h2{
 	transform: translateY(0);
 }
 #job .card .face.face1 .content{
-	opacity: 1;
+	opacity: .9;
 	transition: 0.5s;
 }
 #job .card:hover .face.face1 .content{
@@ -171,6 +171,12 @@ p, h2{
 	border: 1px solid  #CCCCBF;
 }
 
+#instagram h2{
+	color: #000;
+	text-align: justify;
+	font-size: 15;
+}
+
 @media screen and (max-width: 800px) {
 	body {
 		margin: 0;
@@ -220,9 +226,4 @@ p, h2{
 	#job{
 	margin: 15px 0 15px 0;
 	}
-}
-#instagram h2{
-	color: #000;
-	text-align: justify;
-	font-size: 15;
 }

diff --git a/src/scss/vendors/_instagram.scss b/src/scss/vendors/_instagram.scss
@@ -1,12 +1,17 @@
-
-.carousel{
-	height: 700px;
+#instagram h3{
+	font: bold  13px $font_main;
+	display: block;
+	@include make-md-column(1);
+	color: #222213;
+}
+#instagram .carousel{
+	height: 320px;
 	Width: 100%;
 	position: relative;
-	top: -50px;
 }
-.carousel-item{
-	height: 400px;
+#instagram .carousel .carousel-item{
+	overflow: hidden;
+	height: 300px;
 	width: 300px;
 	background-repeat: no-repeat; 
 	background-size: cover;

diff --git a/src/scss/vendors/_about-cap.scss b/src/scss/vendors/_about-cap.scss
@@ -1,10 +1,13 @@
 p{
-	font: 12px $font_main;	
+	font: 12px $font_main;
+	margin: 0;
 }
 h2{
 	font: bold 12px $font_main;
 }
-
+h3{
+	font: bold 17px $font_main;
+}
 .read-about, .read-about-we{
 	@include make-md-column(10);
 	@include make-md-column-offset(1);

diff --git a/src/scss/vendors/_banner.scss b/src/scss/vendors/_banner.scss
@@ -3,7 +3,7 @@
 	color: rgba(241, 241, 241, .8);
 }
 #banner{
-	background-color: #222213;
+	background-color: #0F0F09;
 	position: relative;
 	padding: 100px 0px 100px 0px;
 }

diff --git a/src/scss/vendors/_convite.scss b/src/scss/vendors/_convite.scss
@@ -1,5 +1,5 @@
 #convite{
-	background-color: #222213;
+	background-color: #0F0F09;
 	display: inline-block;
 	height: 160px;
 	width: 100%;
